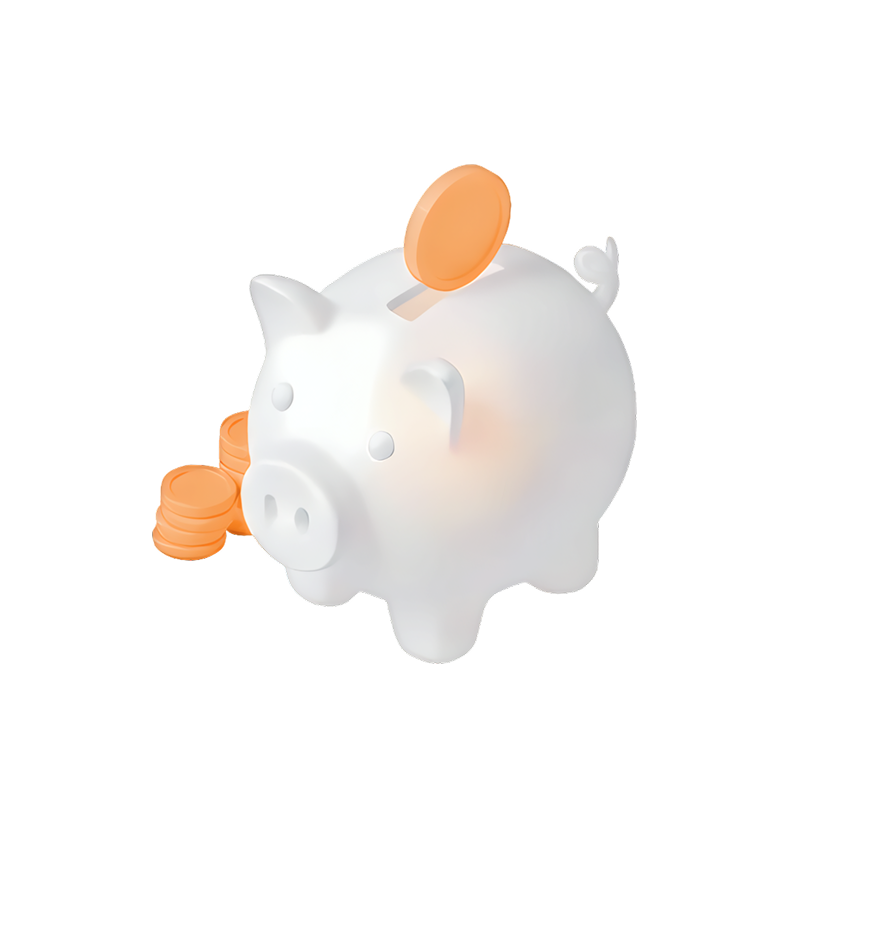
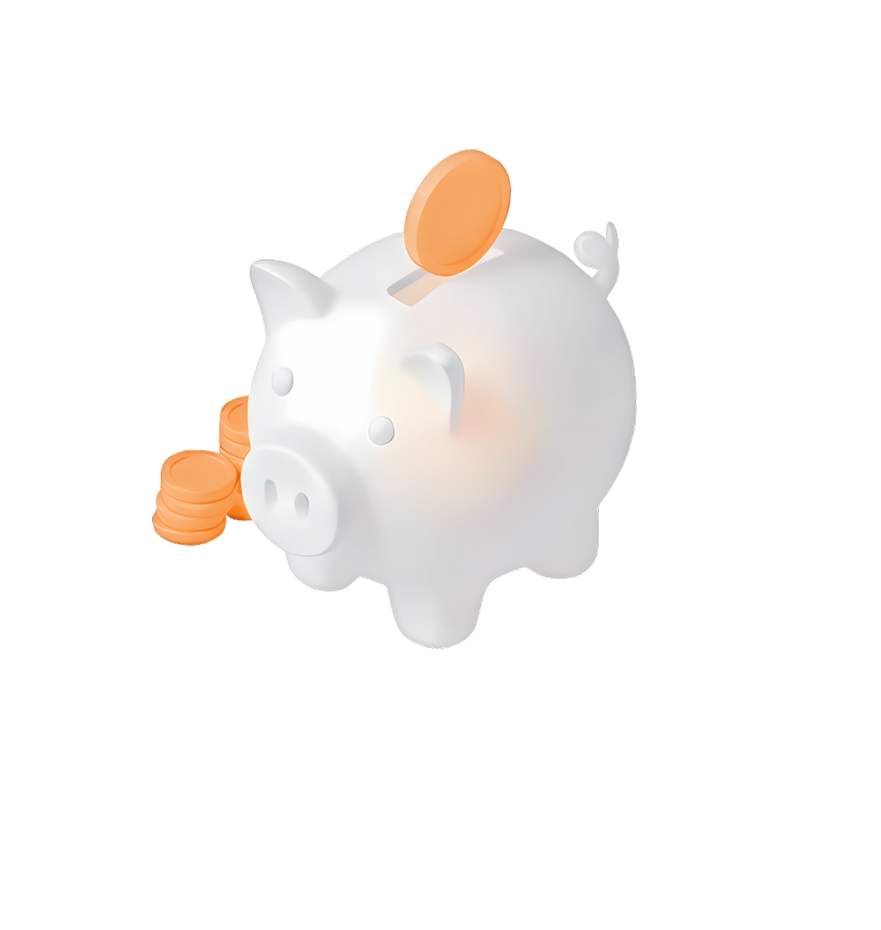
25

diff --git a/static/js/script.js b/static/js/script.js
@@ -220,6 +220,57 @@ document.querySelectorAll('.text-animated').forEach(el => {
 
 
 
+// Функция анимации чисел
+function animateNumber(element, target, duration = 1500) { // Увеличил длительность
+  const isPercentage = target.includes('%');
+  const numericTarget = parseFloat(target.replace(/[~,%]/g, ''));
+  const start = numericTarget * 0.5;
+  const startTime = performance.now();
+
+  function update(currentTime) {
+    const elapsed = currentTime - startTime;
+    const progress = Math.min(elapsed / duration, 1);
+
+    // Более плавная easing function (ease-out cubic -> quadratic)
+    const easeProgress = 1 - Math.pow(1 - progress, 2);
+
+    const current = start + (numericTarget - start) * easeProgress;
+    const prefix = target.startsWith('~') ? '~' : '';
+    const suffix = isPercentage ? '%' : '';
+
+    element.textContent = prefix + Math.round(current) + suffix;
+
+    if (progress < 1) {
+      requestAnimationFrame(update);
+    }
+  }
+
+  requestAnimationFrame(update);
+}
+
+// Проверяем поддержку IntersectionObserver
+if ('IntersectionObserver' in window) {
+  const observer = new IntersectionObserver((entries) => {
+    entries.forEach(entry => {
+      if (entry.isIntersecting && !entry.target.dataset.animated) {
+        const target = entry.target.textContent;
+        entry.target.dataset.animated = 'true';
+        animateNumber(entry.target, target);
+      }
+    });
+  }, {
+    threshold: 0.5,
+    rootMargin: '0px'
+  });
+
+  // Наблюдаем за всеми числами
+  document.querySelectorAll('.res-rc h1.r').forEach(el => {
+    observer.observe(el);
+  });
+}
+
+
+
 function syncForms() {
   const forms = document.querySelectorAll('.contact-form');
 